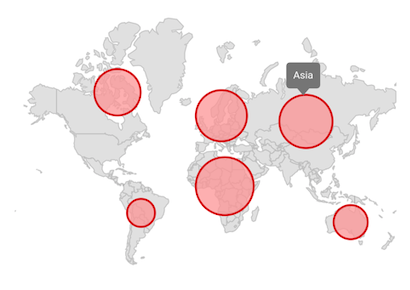
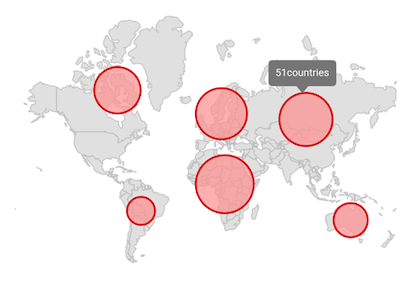
FLUT-1282-[feature][flutter]: modified bubble tooltip

diff --git a/Flutter/maps/bubble.md b/Flutter/maps/bubble.md
@@ -133,7 +133,7 @@ class Model {
 
 ## Bubbles tooltip
 
-You can show tooltip for the bubbles using the `enableBubbleTooltip` property in the `MapShapeLayer`.
+You can show tooltip for the bubbles using the `enableBubbleTooltip` property in the `MapShapeLayer`. It is possible to customize the bubble tooltip text using the `bubbleTooltipTextMapper` properties.
 
 ```dart
 List<Model> data;
@@ -167,6 +167,7 @@ List<Model> data;
                   dataCount: data.length,
                   primaryValueMapper: (int index) => data[index].continent,
                   bubbleSizeMapper: (int index) => data[index].countriesCount,
+                  bubbleTooltipTextMapper: (int index) => data[index].countriesCount.toStringAsFixed(0) + 'countries',
               ),
               showBubbles: true,
               enableBubbleTooltip: true,
